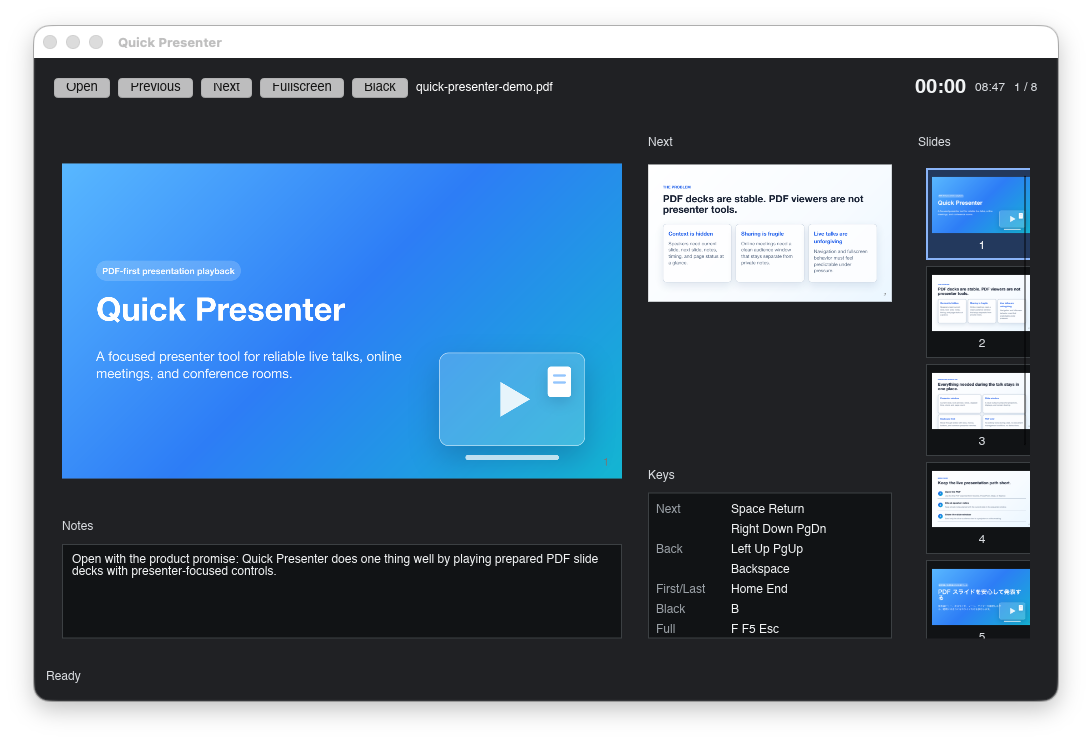
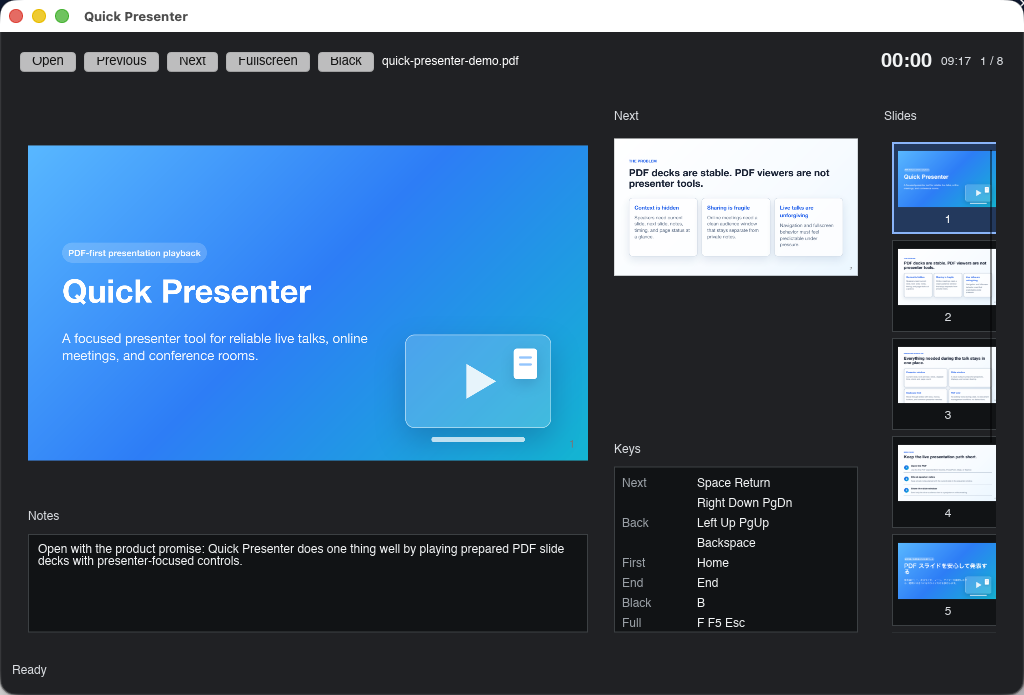
Refine release limitations and key help

diff --git a/docs/RELEASE.md b/docs/RELEASE.md
@@ -117,22 +117,14 @@ directory, or when diagnosing a broken package layout.
 
 ## Known Limitations
 
-- Packaging is still maturing. Some artifacts may be unsigned unless a
-  release explicitly says signing was enabled.
-- macOS notarization and Windows Authenticode signing depend on release
-  credentials and may not be present on every build.
-- The Windows MSI installs Quick Presenter and a Start Menu shortcut, but does
-  not provide PDF file associations or auto-update.
-- The Windows MSIX generated by CI is for validation unless it is signed and
-  explicitly released as installable.
-- Linux desktop launcher, dock, and app switcher behavior depends on the
-  desktop environment. CI validates package layout, desktop metadata, and smoke
-  startup, but not every interactive desktop surface.
 - Speaker notes are extracted from supported PDF text annotations. The first
   supported workflow is Marp PDF speaker notes; arbitrary PDF comments or
   editor-specific note formats may not appear. See [NOTES.md](NOTES.md).
 - Quick Presenter opens prepared PDF decks only. Editing slides, creating
   slides, and managing document libraries are outside the product scope.
+- Linux desktop integration can vary by desktop environment. Package validation
+  checks the installed layout, desktop metadata, and smoke startup, but cannot
+  cover every launcher, dock, and app switcher behavior.
 
 ## Licenses
 

diff --git a/README.md b/README.md
@@ -1,7 +1,7 @@
 # Quick Presenter
 
-[![CI](https://github.com/koichiro/quick-presenter/actions/workflows/ci.yml/badge.svg)](https://github.com/koichiro/quick-presenter/actions/workflows/ci.yml)
-[![Build Binaries](https://github.com/koichiro/quick-presenter/actions/workflows/build-binaries.yml/badge.svg)](https://github.com/koichiro/quick-presenter/actions/workflows/build-binaries.yml)
+[![CI](https://img.shields.io/badge/CI-GitHub%20Actions-2088FF?logo=githubactions&logoColor=white)](https://github.com/koichiro/quick-presenter/actions/workflows/ci.yml)
+[![Build Binaries](https://img.shields.io/badge/builds-GitHub%20Actions-2088FF?logo=githubactions&logoColor=white)](https://github.com/koichiro/quick-presenter/actions/workflows/build-binaries.yml)
 ![Rust](https://img.shields.io/badge/language-Rust-b7410e)
 ![Coverage target](https://img.shields.io/badge/coverage%20target-80%25-brightgreen)
 [![License](https://img.shields.io/badge/license-GPL--3.0--or--later-blue)](LICENSE)
@@ -17,6 +17,10 @@ and online presentations over tools such as Zoom and Google Meet.
 Quick Presenter focuses on one job: open a PDF slide deck and help the speaker
 present it reliably. It is not a slide editor, a deck authoring tool, or a
 document management app.
+
+## Demo
+
+![Quick Presenter demo showing PDF navigation in the presenter window](docs/assets/quick-presenter-demo.gif)
 
 ## Screenshots
 
